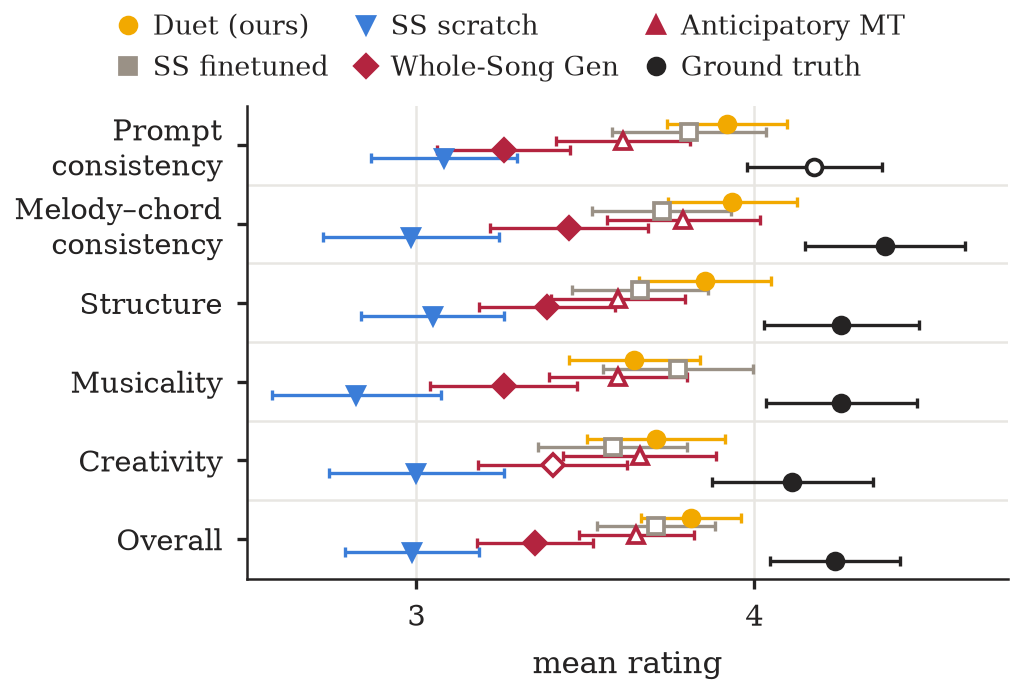
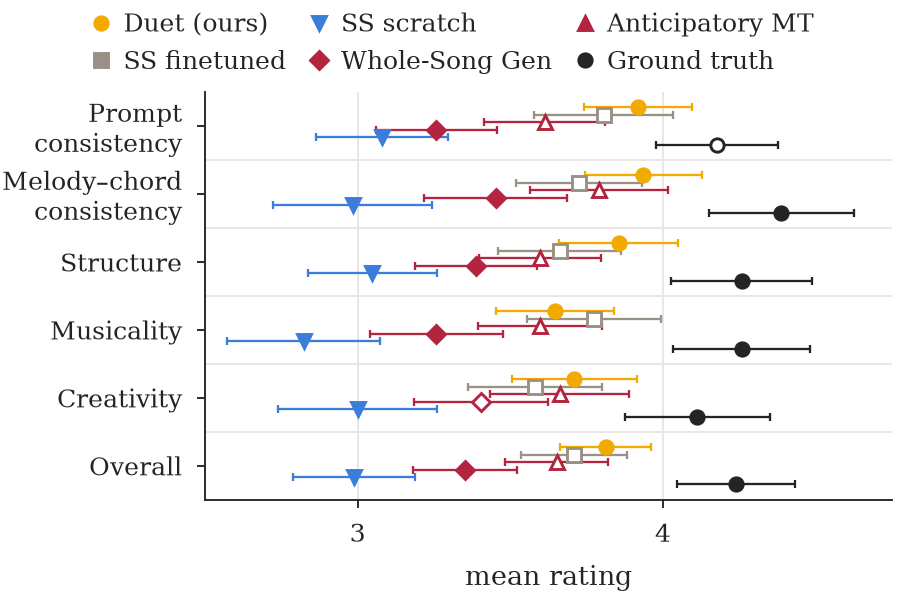
Subjective figure: 3.0 x 2.0 in, smaller fonts, thinner lines and markers
Claude-Session: https://claude.ai/code/session_012w7PFbJyWP4meVE3CJpfno

diff --git a/midi_yinyang/figures/plot_subjective_compact.py b/midi_yinyang/figures/plot_subjective_compact.py
@@ -61,17 +61,18 @@ def main():
     ap.add_argument('--out', required=True)
     ap.add_argument('--exclude', nargs='*', default=[])
     ap.add_argument('--drop-constant', action='store_true')
-    ap.add_argument('--height', type=float, default=2.3, help='figure height in inches')
+    ap.add_argument('--height', type=float, default=2.0, help='figure height in inches')
+    ap.add_argument('--width', type=float, default=3.0, help='figure width in inches')
     args = ap.parse_args()
     rows = load(args.csv, args.exclude, args.drop_constant)
     Ys, n = matrix(rows, 'block')
 
     plt.rcParams.update({
-        'font.family': 'serif', 'font.size': FS_LABEL, 'axes.labelsize': FS_LABEL,
-        'xtick.labelsize': FS_TICK, 'ytick.labelsize': FS_TICK, 'legend.fontsize': FS_LEGEND,
-        'mathtext.fontset': 'stix', 'axes.linewidth': 0.6,
+        'font.family': 'serif', 'font.size': FS_LABEL - 1, 'axes.labelsize': FS_LABEL - 1,
+        'xtick.labelsize': FS_TICK - 1, 'ytick.labelsize': FS_TICK - 1, 'legend.fontsize': FS_LEGEND - 1,
+        'mathtext.fontset': 'stix', 'axes.linewidth': 0.45,
     })
-    fig, ax = plt.subplots(figsize=(3.39, args.height))
+    fig, ax = plt.subplots(figsize=(args.width, args.height))
     fig.patch.set_facecolor(SURFACE); ax.set_facecolor(SURFACE)
     k = len(SYSTEMS)
     # rows top to bottom; systems stacked within a row, ours on top
@@ -87,39 +88,39 @@ def main():
             disp, fam, mk = SYS[s]
             col = colour(s)
             y = ybase - off[i]
-            ax.errorbar(mean[i], y, xerr=ci[i], fmt='none', ecolor=col, elinewidth=0.8,
-                        capsize=1.3, capthick=0.8, zorder=2)
+            ax.errorbar(mean[i], y, xerr=ci[i], fmt='none', ecolor=col, elinewidth=0.55,
+                        capsize=1.0, capthick=0.55, zorder=2)
             # significance is carried by the marker fill (2026-09-24): a
             # system whose ratings differ from ours (Holm-corrected paired
             # t, p < 0.05) is drawn filled, one that does not is drawn open;
             # ours is always filled. No star, so nothing sits on the plot.
             filled = (i == 0) or bool(sig[i - 1])
-            h, = ax.plot(mean[i], y, marker=mk, ms=3.8, mfc=col if filled else SURFACE,
-                         mec=col, mew=0.9, ls='none', zorder=3)
+            h, = ax.plot(mean[i], y, marker=mk, ms=3.2, mfc=col if filled else SURFACE,
+                         mec=col, mew=0.7, ls='none', zorder=3)
             if s not in handles:
                 # legend handle: always the filled form of the marker
-                hl, = ax.plot([], [], marker=mk, ms=3.8, mfc=col, mec=col, mew=0.9, ls='none')
+                hl, = ax.plot([], [], marker=mk, ms=3.2, mfc=col, mec=col, mew=0.7, ls='none')
                 handles[s] = (hl, disp)
         if j < len(ROWS) - 1:
-            ax.axhline(ybase - 0.5, color=GRID, lw=0.6, zorder=0)
+            ax.axhline(ybase - 0.5, color=GRID, lw=0.45, zorder=0)
     ax.set_yticks(range(len(ROWS)))
     ax.set_yticklabels(ROWS[::-1], color=INK)
     ax.set_ylim(-0.5, len(ROWS) - 0.5)
     ax.set_xlim(2.5, 4.75)
     ax.set_xticks([3, 4])
     ax.set_xlabel('mean rating', color=INK)
-    ax.grid(axis='x', color=GRID, lw=0.6, zorder=0)
+    ax.grid(axis='x', color=GRID, lw=0.45, zorder=0)
     for sp in ('top', 'right'):
         ax.spines[sp].set_visible(False)
     for sp in ('left', 'bottom'):
         ax.spines[sp].set_color(INK)
-    ax.tick_params(length=2.5, colors=INK)
+    ax.tick_params(length=2.0, width=0.45, colors=INK)
     order = ['Duet (alt commit)', 'S-finetune', 'S-scratch', 'Whole-song', 'AMT', 'GT']
     # figure-level legend, centred on the full width above the axes so no
     # entry is clipped; the layout below leaves it the top 14% of the height
     fig.legend([handles[s][0] for s in order], [handles[s][1] for s in order], ncol=3,
                loc='upper center', bbox_to_anchor=(0.5, 1.0), frameon=False,
-               fontsize=FS_LEGEND - 0.5, handletextpad=0.3, columnspacing=0.8,
+               fontsize=FS_LEGEND - 1, handletextpad=0.3, columnspacing=0.7,
                borderaxespad=0.1, handlelength=1.2, labelcolor=INK)
     fig.tight_layout(pad=0.3, rect=[0, 0, 1, 0.86])
     for ext in ('pdf', 'png'):
